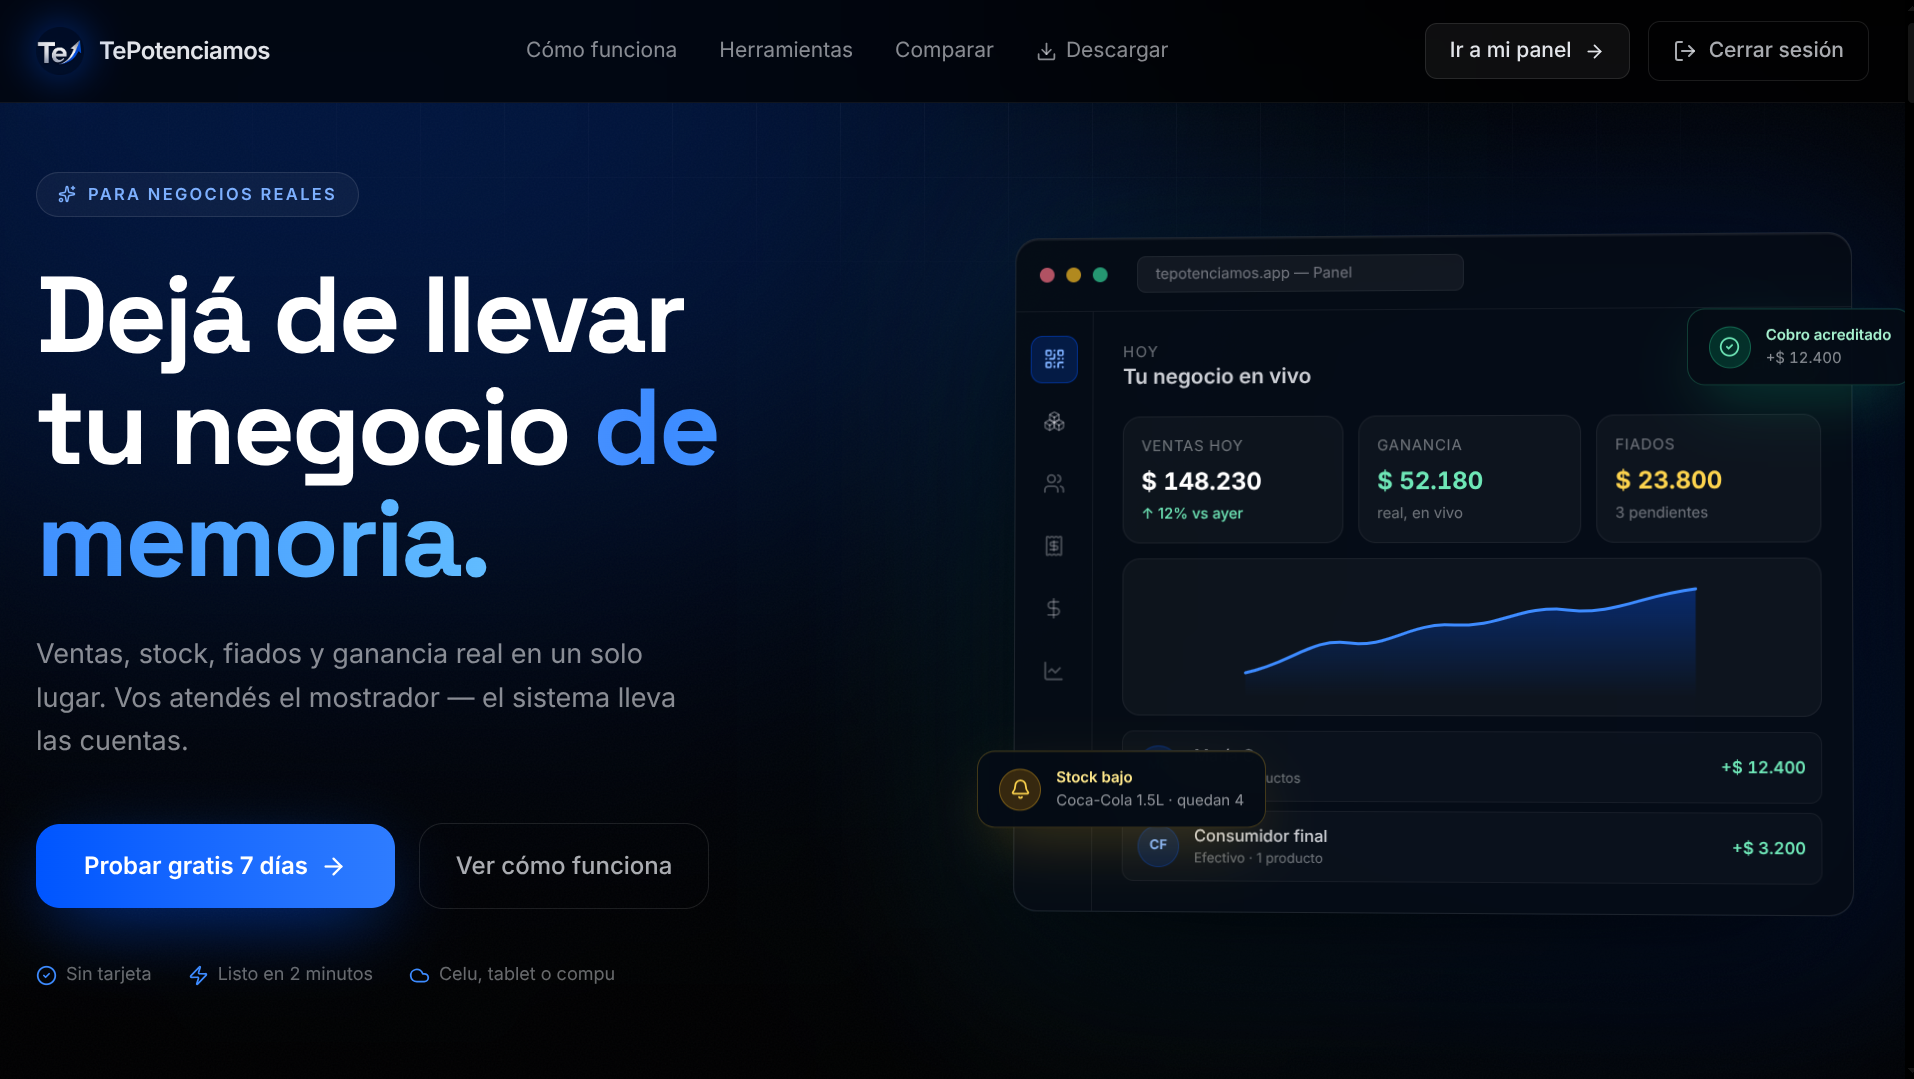
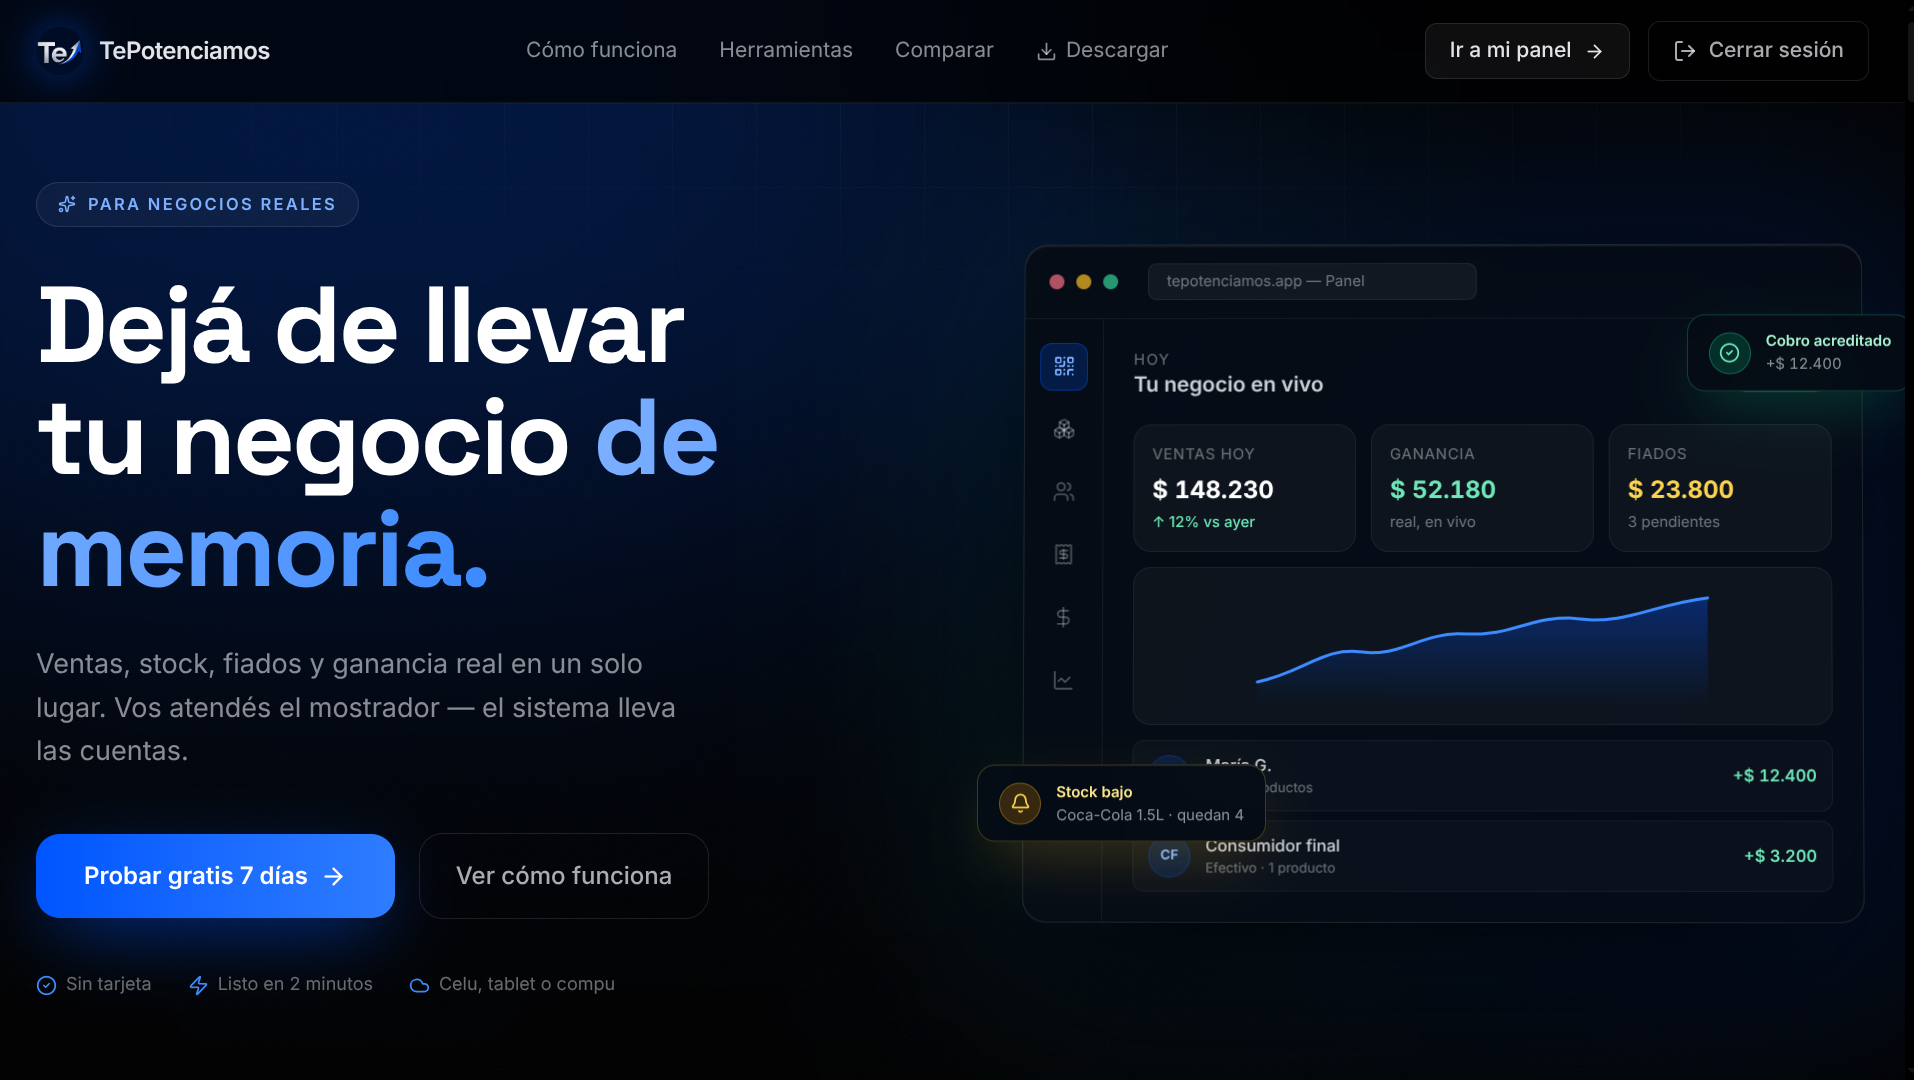
reemplazar captura de Tu Negocio Potenciado

diff --git a/index.html b/index.html
@@ -2361,7 +2361,7 @@
                   <path d="M7 7h10v10" />
                 </svg>
               </span>
-              <img src="imagenes/tunegociopotenciado.png"
+              <img src="imagenes/tunegociopotenciado.png?v=2"
                 alt="Tu Negocio Potenciado — sistema de gestión integral con métricas" loading="lazy" />
             </div>
             <div class="showcase-body">
